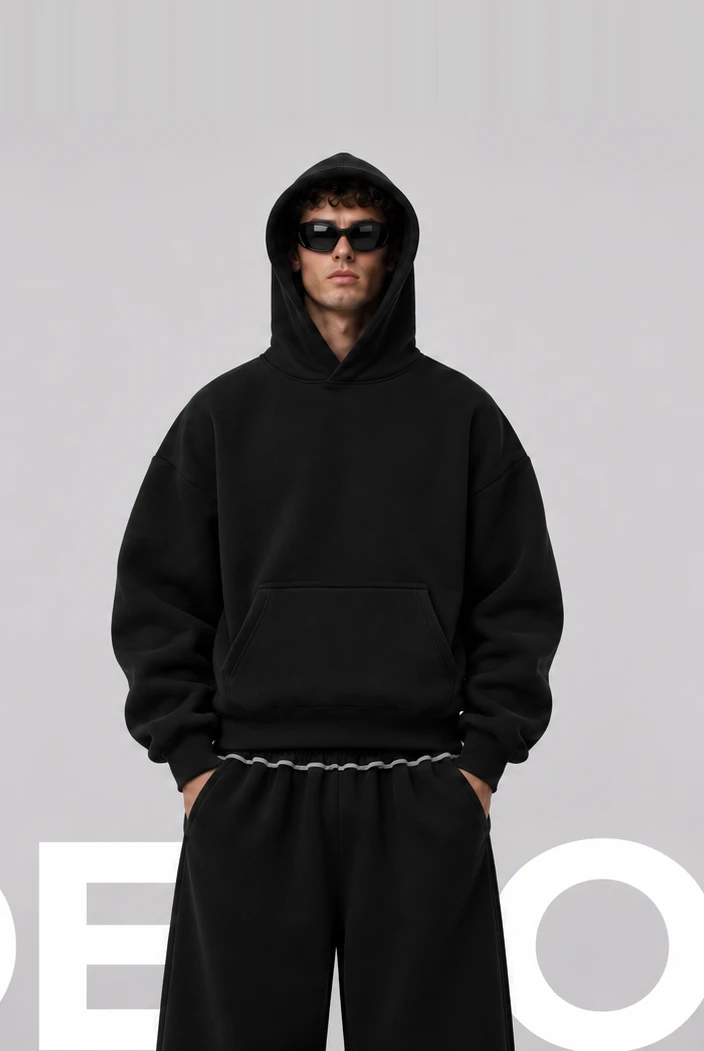
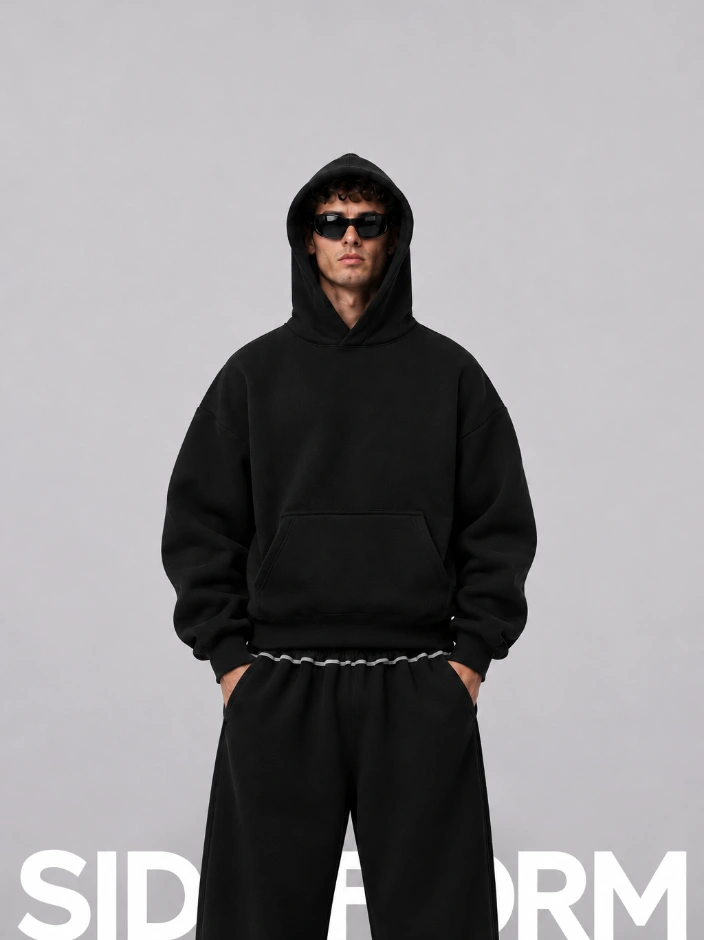
Refine hero wordmark alignment and model texture

Changed region(s): [[0.0, 0.1234, 1.0, 1.0], [0.4375, 0.8638, 0.5312, 1.0]]

diff --git a/theme/assets/sideform.css b/theme/assets/sideform.css
@@ -929,6 +929,9 @@ body:has(.rummap-hero) .sf-home-header:not(.sf-home-header--solid) .header-wrapp
 .sf-launch{background:#d0cecf;color:#20231f}
 .sf-launch picture,.sf-launch__image{display:block;width:100%}
 .sf-launch__image{height:auto}
+@media(min-width:1700px){
+ .sf-launch picture{max-width:1700px;margin-inline:auto;mask-image:linear-gradient(to right,transparent,#000 16px,#000 calc(100% - 16px),transparent)}
+}
 body:has(.sf-launch) .sf-home-header:not(.sf-home-header--solid) .header-wrapper:not(:has(.header__search details[open],header-drawer details[open])){--sf-overlay-ink:#20231f}
 @media(min-width:750px) and (max-width:1199px){.sf-launch{padding-top:16px}}
 .sf-arrivals-section .sf-home-section-heading{font-weight:400}
